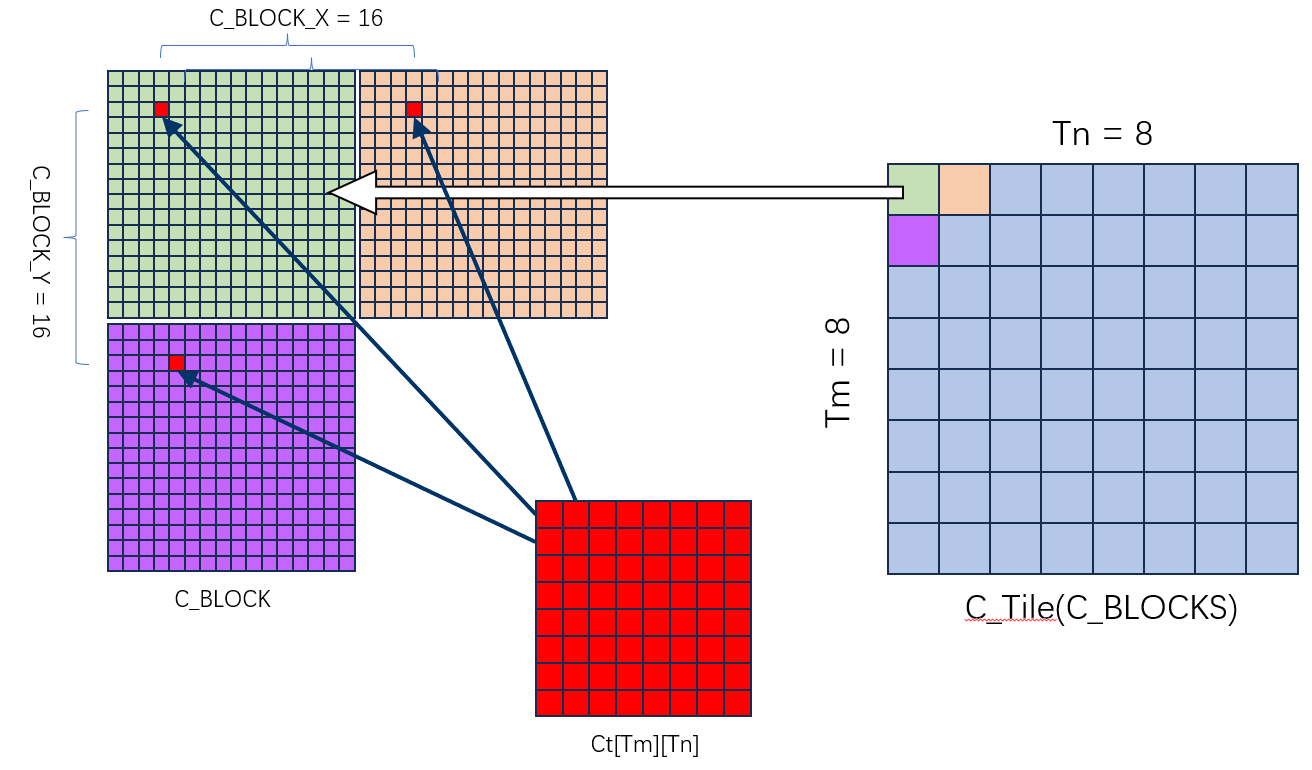
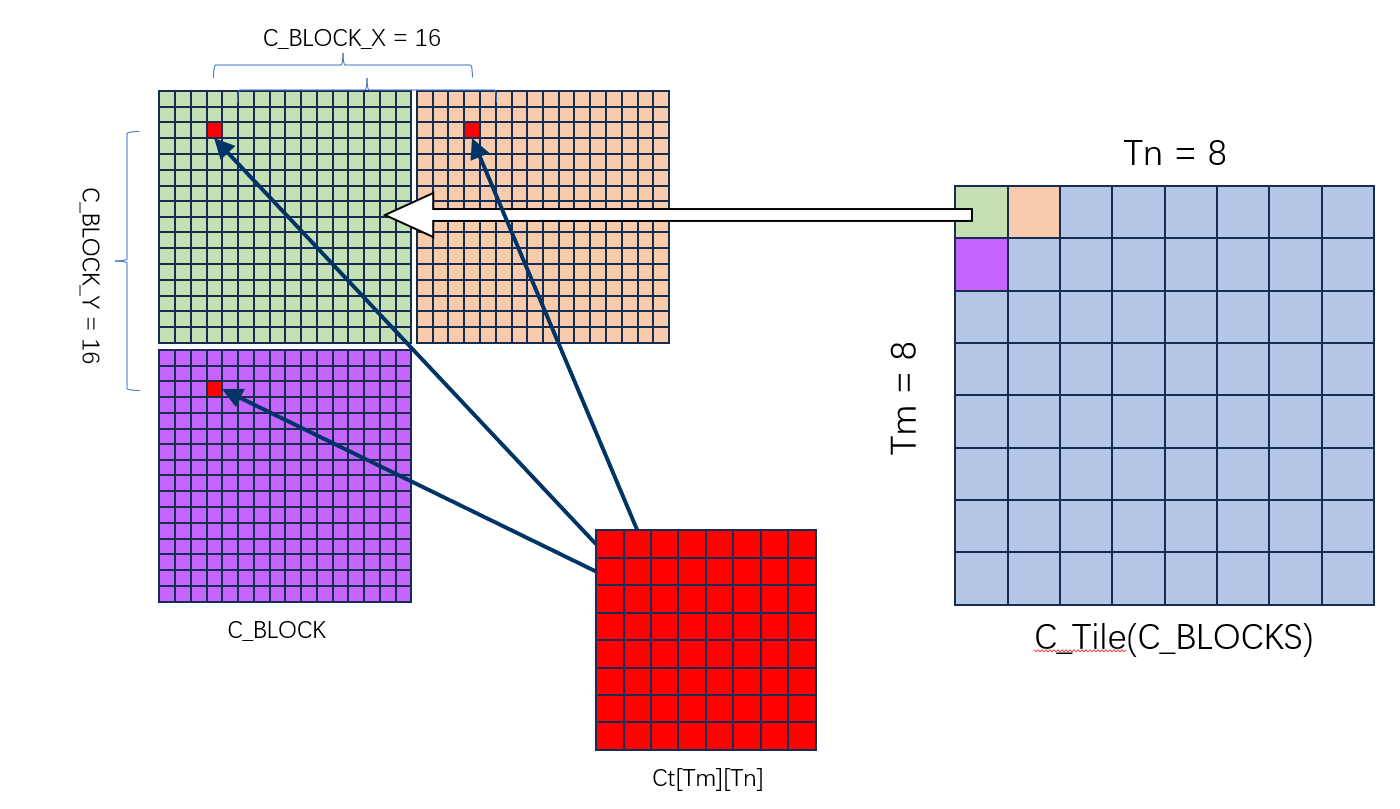
fix picture error, point to correct position

Changed region(s): [[0.0312, 0.0, 1.0, 0.9974]]

diff --git a/docs/guides/模块二-CUDA编程与算子优化/4.1-CUDA GEMM算子性能优化.md b/docs/guides/模块二-CUDA编程与算子优化/4.1-CUDA GEMM算子性能优化.md
@@ -225,7 +225,7 @@ float Ct[Tm][Tn] = {0.0f};
 ```
 ⚠ **注意**：这里每个线程负责的 8×8 个输出元素并非连续的，而是以 `C_BLOCK_Y=16` 行、`C_BLOCK_X=16` 列为间距的**跨步分布**。这是因为 256 个线程排成 $16 \times 16$ 的网格，每个线程在 M 和 N 方向各"跳"8 次覆盖 $128 \times 128$ 的 tileC。
 
-<img src="/AIInfraGuide/images/gemm-C_tile_bolcks.png" alt="每个线程负责填充每个C_BLOCK中相同的位置" style="max-width: 50%; display: block; margin: 0 auto;" />
+<img src="/AIInfraGuide/images/gemm-C_tile_bolcks.png" alt="每个线程负责填充每个C_BLOCK中相同的位置" style="display: block; margin: 0 auto;" />
 
 ### 4.5 代码实现
 
